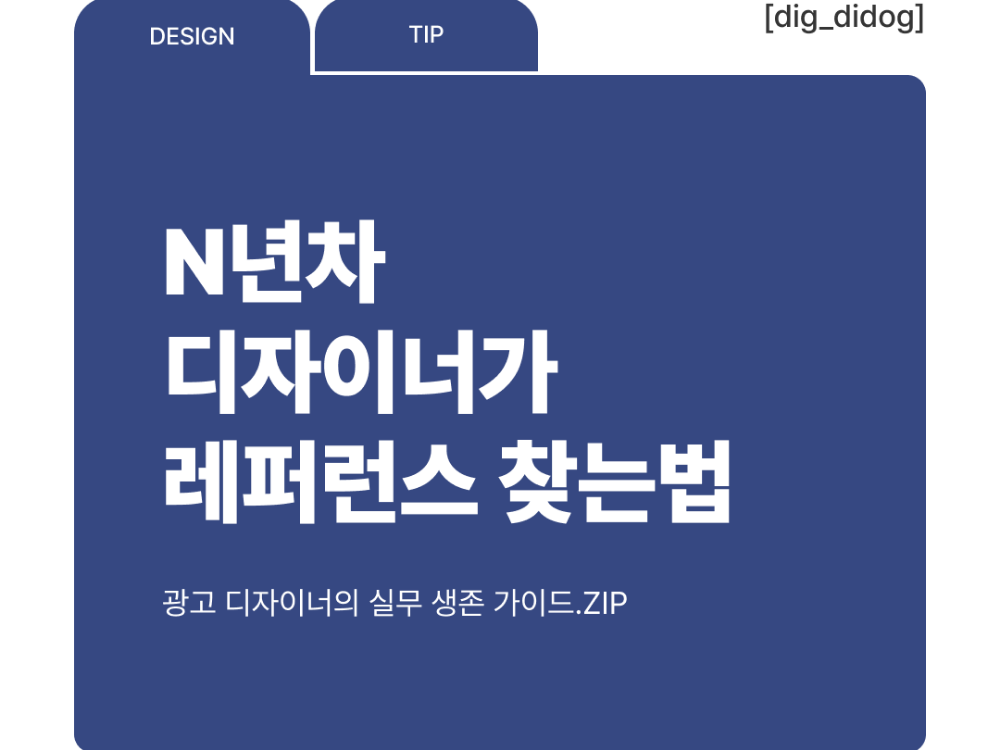
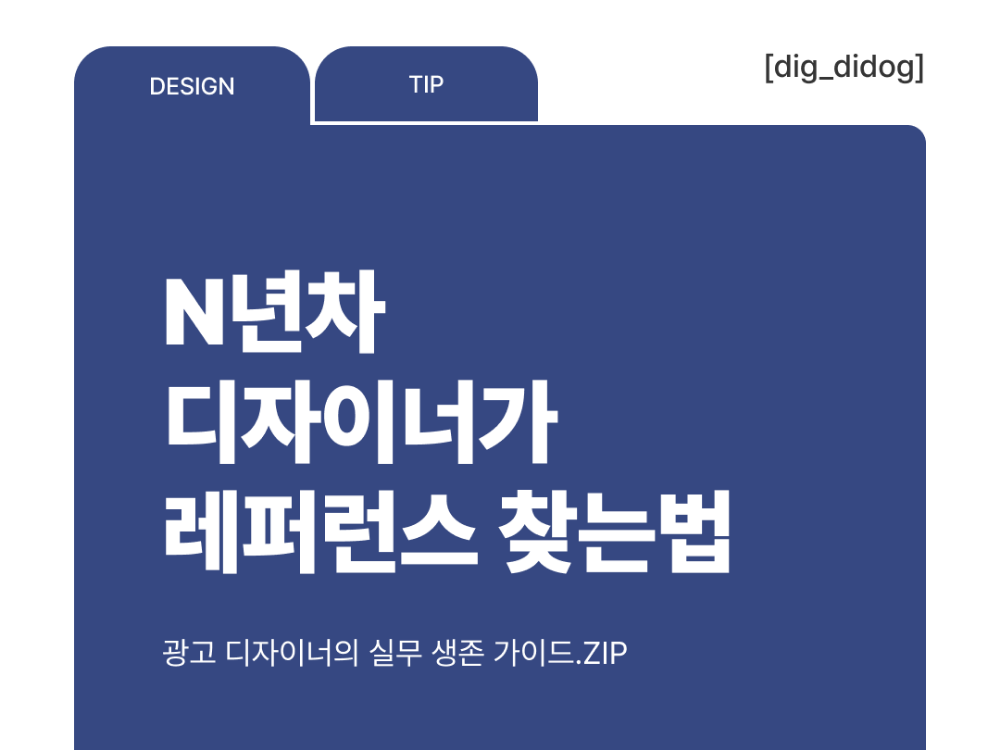
레퍼런스 가이드 — 부제·레퍼런스 섹션 카드 그리드·썸네일 위치 수정

diff --git a/design-study-article/tagby-original-ref-guide-0605.html b/design-study-article/tagby-original-ref-guide-0605.html
@@ -247,7 +247,7 @@
       </div>
 
       <h1 class="text-4xl md:text-5xl font-bold mb-6 leading-tight" style="font-weight: 800; line-height: 1.25;">레퍼런스 가이드</h1>
-      <p class="text-xl text-gray-400 mb-12 leading-relaxed">태그바이 디자인팀이 모은 레퍼런스 사이트 입니다.</p>
+      <p class="text-xl text-gray-400 mb-12 leading-relaxed">N년차 디자이너가 레퍼런스 찾는법</p>
 
       <!-- 캐러셀 -->
       <div class="carousel-wrapper" id="carousel" style="padding: 0 30px;">
@@ -279,54 +279,67 @@
       <div class="carousel-counter" id="carouselCounter">1 / 14</div>
       <div class="carousel-dots" id="carouselDots"></div>
 
-      <div class="mt-12 article-content">
-        <h2 style="margin-top: 3rem;">📌 레퍼런스 사이트 모음</h2>
+      <div class="mt-14">
+        <h2 class="text-2xl font-bold text-white mb-8" style="padding-bottom: 0.75rem; border-bottom: 1px solid #2D2D2D;">📌 레퍼런스 사이트 모음</h2>
+        <div style="display: grid; grid-template-columns: repeat(2, 1fr); gap: 1rem;">
 
-        <p>실제 광고 참고용</p>
-        <ul>
-          <li>Facebook Ads Library</li>
-          <li>TikTok Creative Center</li>
-          <li>스니핏</li>
-          <li>레버엑스퍼트</li>
-        </ul>
+          <div style="background:#1F1F1F; border:1px solid #2D2D2D; border-radius:12px; padding:1.25rem;">
+            <p style="font-size:0.65rem; font-weight:700; color:#FF8C42; letter-spacing:0.12em; text-transform:uppercase; margin-bottom:0.75rem;">📢 실제 광고 참고</p>
+            <ul style="list-style:none; padding:0; margin:0; display:flex; flex-direction:column; gap:0.4rem;">
+              <li style="font-size:0.9rem; color:#C0C0C0;">Facebook Ads Library</li>
+              <li style="font-size:0.9rem; color:#C0C0C0;">TikTok Creative Center</li>
+              <li style="font-size:0.9rem; color:#C0C0C0;">스니핏</li>
+              <li style="font-size:0.9rem; color:#C0C0C0;">레버엑스퍼트</li>
+            </ul>
+          </div>
 
-        <p>디자인 감각 키우기</p>
-        <ul>
-          <li>Behance</li>
-          <li>Godly</li>
-          <li>Notefolio</li>
-          <li>Dribbble</li>
-          <li>Are.na</li>
-        </ul>
+          <div style="background:#1F1F1F; border:1px solid #2D2D2D; border-radius:12px; padding:1.25rem;">
+            <p style="font-size:0.65rem; font-weight:700; color:#5aabff; letter-spacing:0.12em; text-transform:uppercase; margin-bottom:0.75rem;">🎨 디자인 감각 키우기</p>
+            <ul style="list-style:none; padding:0; margin:0; display:flex; flex-direction:column; gap:0.4rem;">
+              <li style="font-size:0.9rem; color:#C0C0C0;">Behance</li>
+              <li style="font-size:0.9rem; color:#C0C0C0;">Godly</li>
+              <li style="font-size:0.9rem; color:#C0C0C0;">Notefolio</li>
+              <li style="font-size:0.9rem; color:#C0C0C0;">Dribbble</li>
+              <li style="font-size:0.9rem; color:#C0C0C0;">Are.na</li>
+            </ul>
+          </div>
 
-        <p>브랜딩/스튜디오 참고</p>
-        <ul>
-          <li>Plus X</li>
-          <li>DDBBMM</li>
-          <li>bbareunson</li>
-          <li>odd-hyphen</li>
-          <li>omse</li>
-          <li>itsnicethat</li>
-        </ul>
+          <div style="background:#1F1F1F; border:1px solid #2D2D2D; border-radius:12px; padding:1.25rem;">
+            <p style="font-size:0.65rem; font-weight:700; color:#a78bfa; letter-spacing:0.12em; text-transform:uppercase; margin-bottom:0.75rem;">🏢 브랜딩 / 스튜디오</p>
+            <ul style="list-style:none; padding:0; margin:0; display:flex; flex-direction:column; gap:0.4rem;">
+              <li style="font-size:0.9rem; color:#C0C0C0;">Plus X</li>
+              <li style="font-size:0.9rem; color:#C0C0C0;">DDBBMM</li>
+              <li style="font-size:0.9rem; color:#C0C0C0;">bbareunson</li>
+              <li style="font-size:0.9rem; color:#C0C0C0;">odd-hyphen</li>
+              <li style="font-size:0.9rem; color:#C0C0C0;">omse</li>
+              <li style="font-size:0.9rem; color:#C0C0C0;">itsnicethat</li>
+            </ul>
+          </div>
 
-        <p>패션 카테고리 참고</p>
-        <ul>
-          <li>29CM</li>
-          <li>무신사</li>
-          <li>W컨셉</li>
-          <li>EQL</li>
-          <li>SSF Shop</li>
-          <li>Kolon Mall</li>
-        </ul>
+          <div style="background:#1F1F1F; border:1px solid #2D2D2D; border-radius:12px; padding:1.25rem;">
+            <p style="font-size:0.65rem; font-weight:700; color:#34d399; letter-spacing:0.12em; text-transform:uppercase; margin-bottom:0.75rem;">👗 패션 카테고리</p>
+            <ul style="list-style:none; padding:0; margin:0; display:flex; flex-direction:column; gap:0.4rem;">
+              <li style="font-size:0.9rem; color:#C0C0C0;">29CM</li>
+              <li style="font-size:0.9rem; color:#C0C0C0;">무신사</li>
+              <li style="font-size:0.9rem; color:#C0C0C0;">W컨셉</li>
+              <li style="font-size:0.9rem; color:#C0C0C0;">EQL</li>
+              <li style="font-size:0.9rem; color:#C0C0C0;">SSF Shop</li>
+              <li style="font-size:0.9rem; color:#C0C0C0;">Kolon Mall</li>
+            </ul>
+          </div>
 
-        <p>패키지 디자인</p>
-        <ul>
-          <li>The Dieline</li>
-          <li>Lovely Package</li>
-          <li>BP&amp;O</li>
-          <li>Packly Gallery</li>
-          <li>Packaging of the World</li>
-        </ul>
+          <div style="background:#1F1F1F; border:1px solid #2D2D2D; border-radius:12px; padding:1.25rem; grid-column: 1 / -1;">
+            <p style="font-size:0.65rem; font-weight:700; color:#fb923c; letter-spacing:0.12em; text-transform:uppercase; margin-bottom:0.75rem;">📦 패키지 디자인</p>
+            <ul style="list-style:none; padding:0; margin:0; display:flex; flex-wrap:wrap; gap:0.4rem 2rem;">
+              <li style="font-size:0.9rem; color:#C0C0C0;">The Dieline</li>
+              <li style="font-size:0.9rem; color:#C0C0C0;">Lovely Package</li>
+              <li style="font-size:0.9rem; color:#C0C0C0;">BP&amp;O</li>
+              <li style="font-size:0.9rem; color:#C0C0C0;">Packly Gallery</li>
+              <li style="font-size:0.9rem; color:#C0C0C0;">Packaging of the World</li>
+            </ul>
+          </div>
+
+        </div>
       </div>
 
       <div class="mt-12 pt-8 border-t border-gray-800">

diff --git a/tagby-article.html b/tagby-article.html
@@ -937,7 +937,7 @@ if(location.hash.includes("figmacapture")){
 
         <a href="design-study-article/tagby-original-ref-guide-0605.html" class="magazine-card group bg-gray-900 rounded-2xl overflow-hidden hover:bg-gray-800 transition-all duration-300 cursor-pointer block" data-category="TAGby Original" style="display:none;">
           <div class="aspect-[4/3]" style="overflow:hidden; background:#111;">
-            <img src="images/ref-guide-0605-cover.png" alt="레퍼런스 가이드 표지" style="width:100%; height:100%; object-fit:cover; object-position:center;">
+            <img src="images/ref-guide-0605-cover.png" alt="레퍼런스 가이드 표지" style="width:100%; height:100%; object-fit:cover; object-position:center 40%;">
           </div>
           <div class="p-6">
             <h3 class="text-lg font-bold mb-3 text-white group-hover:text-[#0078F0] transition-colors">레퍼런스 가이드<span class="block text-sm font-normal" style="margin-top:6px;color:#9CA3AF;font-weight:700;line-height:1.5;">광고 소재 유형별 구성 방식 정리</span></h3>